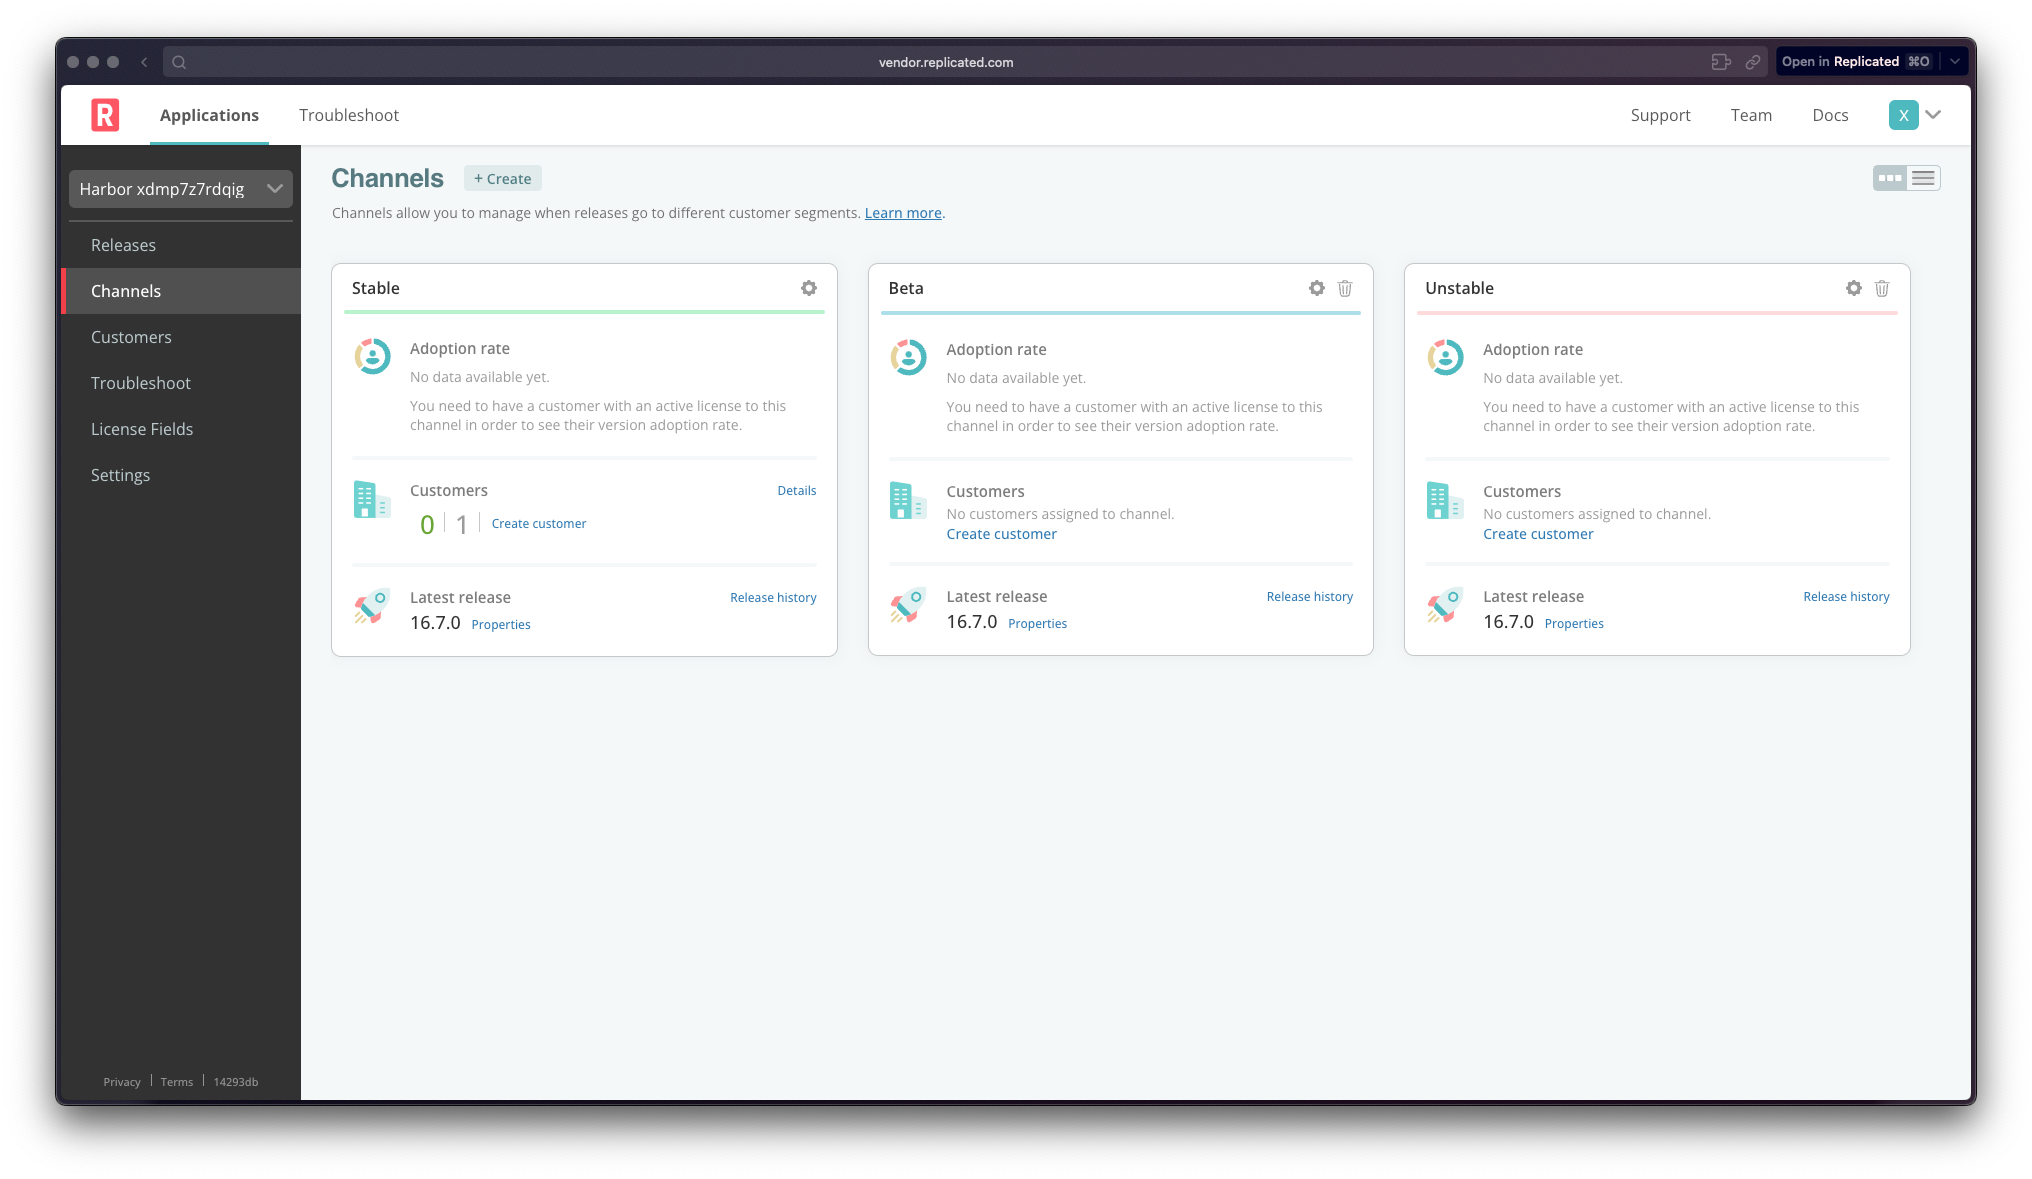
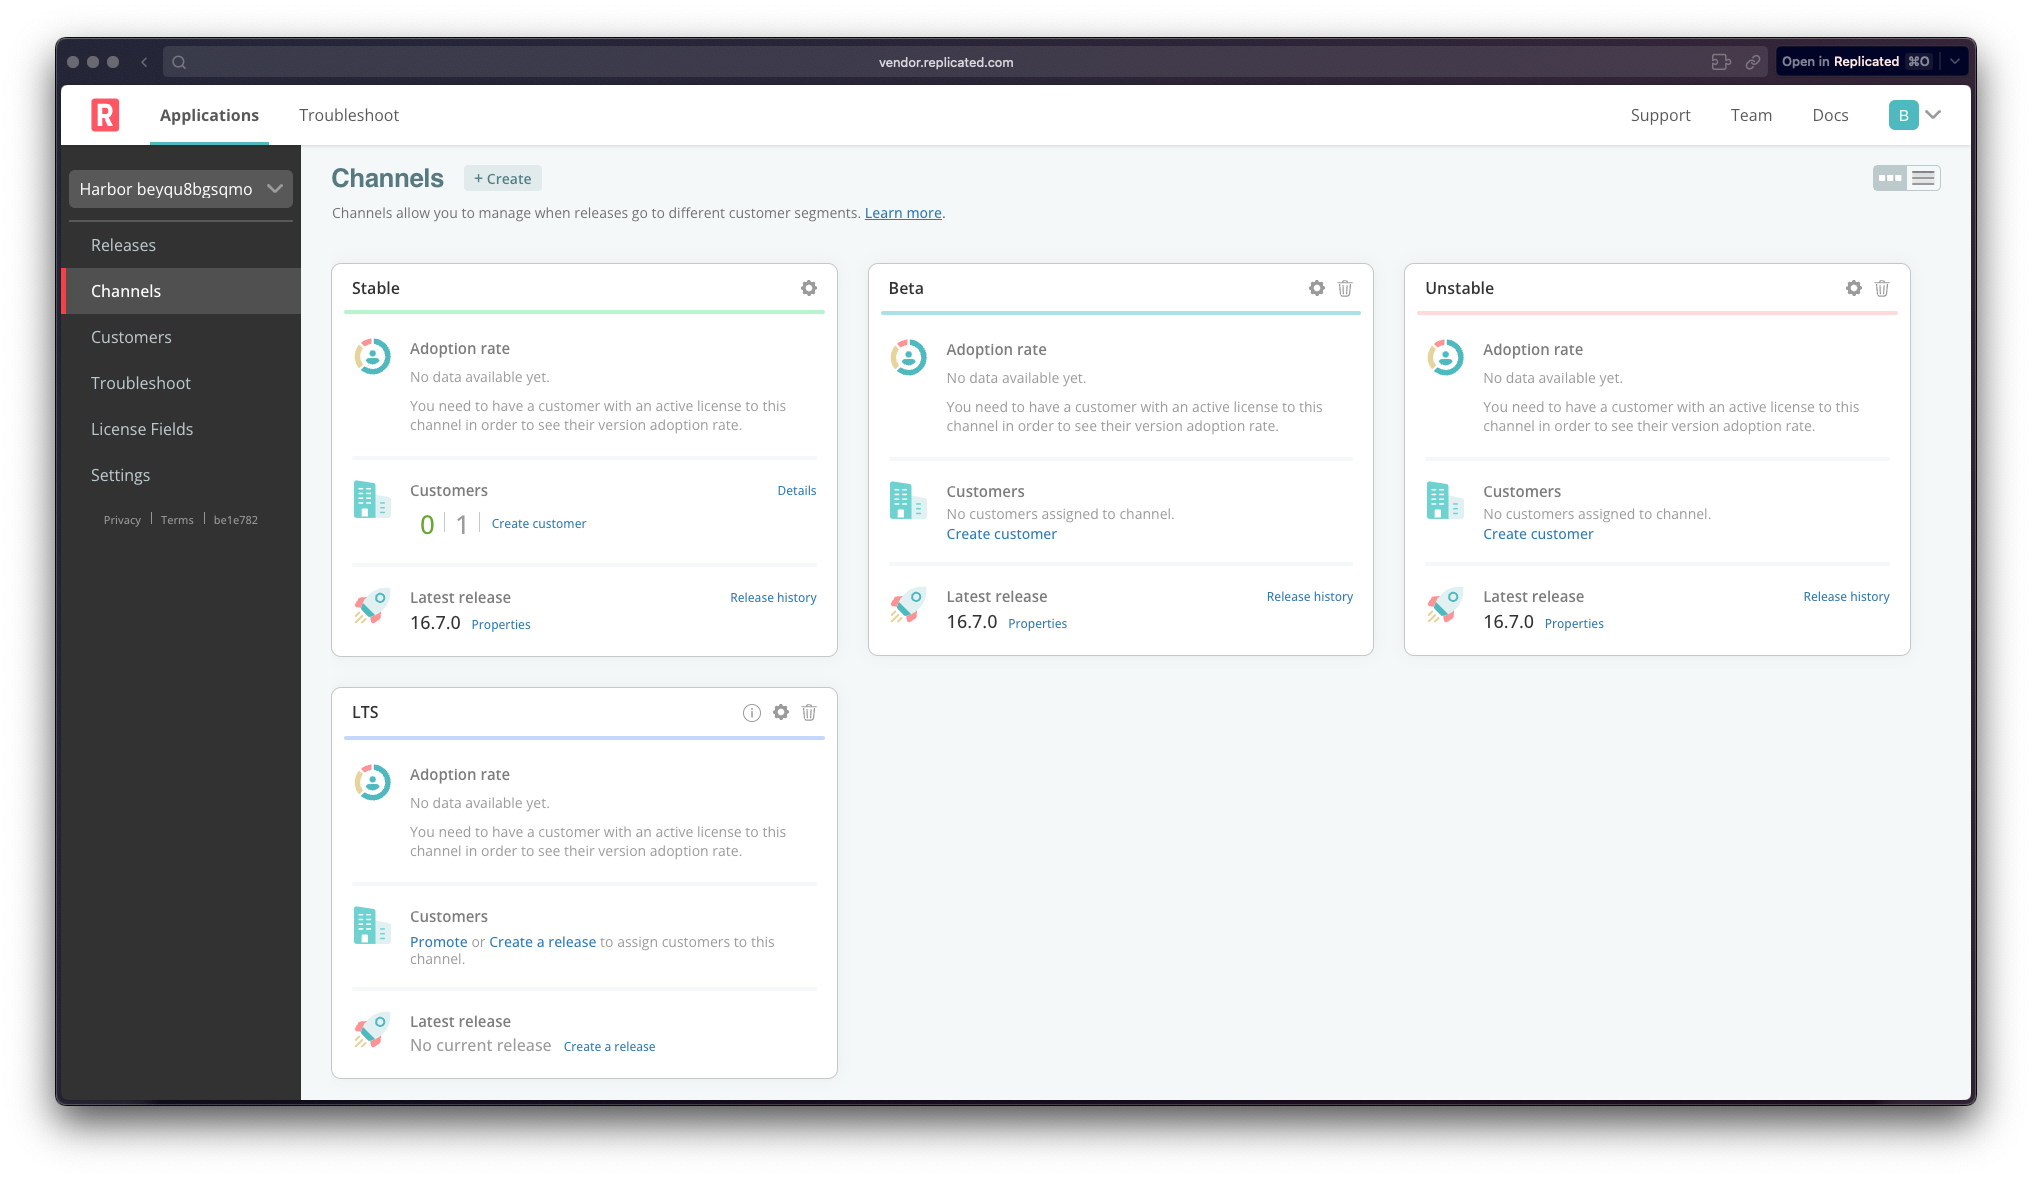
Incorporates feedback from Dex's review (#272)
TL;DR
-----

Addresses feedback from @dexhorthy's review

Details
-------

Clarifies instructions, breaks up some walls of texts,
and exposes the user to a few more CLI commands based on
the feedback @dexhorthy provided on #271 after I got
enough approvals to merge.

diff --git a/instruqt/distributing-with-replicated/03-creating-a-release/assignment.md b/instruqt/distributing-with-replicated/03-creating-a-release/assignment.md
@@ -43,6 +43,12 @@ Release channels help you account for these different release
 cadences for your software. By default, Replicated creates
 three release channels for each application:
 
+```
+replicated channel ls
+```
+
+You should see three channels in the output:
+
 * `Unstable` is, as it sounds, releases that may be unstable
    and subject to defects and/or constant change. You may have
    every merge PR hit this channel, for example.
@@ -54,13 +60,19 @@ three release channels for each application:
   channel for any customer who did not opt-in to an alternative.
 
 You may consider a few other uses for release channels in your
-release process. Some examples:
+release process. For examples, let's add a channel called `LTS`
+for those customers who want longer term guarantees of
+support and fitness that you provide for your standard releases.
 
-* `LTS` for those customer who want longer term gaurantees
-  of support and fitness that you provide for your standard
-  releases.
+```
+replicated channel create --name LTS \
+  --description "Releases with long-term support available"
+```
+
+Other examples:
+
 * `Edge` for customer who want continuous delivery of your
-   software to their environmnets.
+   software to their environments.
 * Channels named after the feature branches in your source
   code. These can help product teams validate release before
   they are merged for release on your primary channels.
@@ -69,7 +81,8 @@ release process. Some examples:
 Creating Your Release
 =====================
 
-To create a release, run the following command:
+To create a release, run the following command. We're using the
+`Unstable` channel since we're releasing our most recent change.
 
 ```
 replicated release create --promote Unstable --yaml-dir ./release --version 16.7.0  \
@@ -77,10 +90,9 @@ replicated release create --promote Unstable --yaml-dir ./release --version 16.7
 ```
 
 This creates a release for version `16.7.0` of your Harbor Helm
-Chart, and promotes it to the `Unstable` channel. To release it
-to another channel, use `replicated release promote`. The `create`
-command output sequence number that you'll need for `promote` (it
-will be `2` if you haven't explored releasing a bit more).
+Chart, and promotes it to the `Unstable` channel.  The `create`
+command output sequence number that you'll need for `promote`
+(it will be `2` if you haven't explored releasing a bit more).
 
 ```
   _ Reading manifests from ./release _
@@ -90,10 +102,30 @@ will be `2` if you haven't explored releasing a bit more).
     _ Channel 2Qa7rGeBiT3DaDK85s6FVKRC7Mn successfully set to release 2
 ```
 
-In your actual release process, there may be a lot of activity
-between releasing to `Unstable`, promoting to `Beta`, and
-ultimately releasing on `Stable`. For the purposes of the lab,
-let's just promote the release straight through.
+The sequence number uniquely identifies a release among all the
+releases you've made of your application. You can list your
+releases using
+
+```
+replicated release ls
+```
+
+which should show the initial release made during lab
+set up as well as the release you just created. It will
+also show the channel each release is currently available on,
+if any.
+
+```
+SEQUENCE    CREATED                 EDITED                  ACTIVE_CHANNELS
+2           2023-06-08T00:23:40Z    0001-01-01T00:00:00Z    Unstable
+1           2023-06-08T00:19:43Z    0001-01-01T00:00:00Z    Stable
+```
+
+To make an existing release available on another channel, use
+`replicated release promote`. In your actual release process,
+there may be a lot of activity between releasing to `Unstable`,
+promoting to `Beta`, and ultimately releasing on `Stable`.
+For the purposes of the lab, let's just promote the release straight through.
 
 ```
 replicated release promote 2 Beta --version 16.7.0 \
@@ -107,3 +139,10 @@ replicated release promote 2 Stable --version 16.7.0 \
   --release-notes "Prepares for distribution with Replicated by incorporating the Replicated SDK"
 ```
 
+You can see they were promoted by listing your releases again:
+
+```
+SEQUENCE    CREATED                 EDITED                  ACTIVE_CHANNELS
+2           2023-06-08T00:23:40Z    0001-01-01T00:00:00Z    Stable,Beta,Unstable
+1           2023-06-08T00:19:43Z    0001-01-01T00:00:00Z
+```

diff --git a/instruqt/distributing-with-replicated/04-installing-the-application/assignment.md b/instruqt/distributing-with-replicated/04-installing-the-application/assignment.md
@@ -46,6 +46,9 @@ each channel shows the current version `16.7.0`.
 
 ![Vendor Portal Release Channels](../assets/vendor-portal-landing.png)
 
+_Note: If you are already a user of the Replicated Vendor Portal
+you may need to log out using the settings menu in the top right
+corner before you can log in as the lab user._
 
 Getting the Install Instructions
 ================================
@@ -63,7 +66,7 @@ installed anywhere yet.
 ![Customers Landing Page](../assets/customers-page.png)
 
 Below the graph you'll see the list of customers, with the customer
-"Omozon" as the only one in the list. Click on their name and you'll
+"Omozan" as the only one in the list. Click on their name and you'll
 be brought to their customer page. In the top right corner you'll
 see a link to their install instructions.
 
@@ -83,8 +86,8 @@ added any to our chart.
 Installing the Application
 ==========================
 
-Your customer starts their installation by logging into our 
-registry with the `helm` command. This gives them access to 
+Your customer starts their installation by logging into our
+registry with the `helm` command. This gives them access to
 your Helm chart via the Replicated Platform.
 
 ```
@@ -94,7 +97,7 @@ helm registry login registry.replicated.com \
 ```
 
 From there, they do a simple Helm install. In our case, we're going to
-tack some additional values that Harbor needs to come up correctly. 
+tack some additional values that Harbor needs to come up correctly.
 This helps us make sure the installation is complete before we move
 onto the next step in the lab.
 
@@ -104,3 +107,6 @@ helm install harbor \
   --set service.type=NodePort --set nodePort.https=443 \
   --set externalURL=https://[[  Instruqt-Var key="EXTERNAL_URL" hostname="cluster" ]]
 ```
+
+It's normal for this command to take a little bit of time to
+complete as various components of the Harbor registry come up.

diff --git a/instruqt/distributing-with-replicated/02-enabling-the-sdk/assignment.md b/instruqt/distributing-with-replicated/02-enabling-the-sdk/assignment.md
@@ -20,17 +20,17 @@ timelimit: 300
 ---
 
 Now that we've got our environment set up, let's incorporate the
-SDK into our application. We make it easy for you to do this by
-providing a Helm chart you can drop into your chart as a
+SDK into our application. Replicated makes it easy for you to do
+this by providing a Helm chart you can drop into your chart as a
 dependency. When you deliver your Helm chart from the Replicated
-regisry, we'll embed your customer's license into the final
+registry, we'll embed your customer's license into the final
 chart.
 
 This injection serves a few purposes:
 
-1. The licese is available to your application logic through a
-   call to an in-cluster SDK
-2. Accesss to your container images and other registry
+1. The license is available to your application logic through a
+   call to an API provided by an in-cluster service.
+2. Access to your container images and other registry
    assets is secured using customer-specific credentials
 3. The in-cluster service can connect securely to the Replicated
    vendor portal for telemetry, upgrade checks, etc.
@@ -38,7 +38,7 @@ This injection serves a few purposes:
 Adding the Dependency
 ======================
 
-Go to the the "Code Editor" tab and edit the file `Chart.yaml` in
+Go to the the "Manifest Editor" tab and edit the file `Chart.yaml` in
 the source directory `harbor`. You're going to make two changes to
 this file.
 
@@ -92,8 +92,14 @@ helm package harbor --destination ./release
 ```
 
 You should now have a tarball in directory `release` in your
-home directoy.
+home directory.
 
 ```
 ls release
+```
+
+which shows
+
+```
+harbor-16.7.0.tgz
 ```

diff --git a/instruqt/distributing-with-replicated/01-preparing-to-use-the-sdk/assignment.md b/instruqt/distributing-with-replicated/01-preparing-to-use-the-sdk/assignment.md
@@ -41,10 +41,10 @@ things. They've been set up for you in this lab environment.
    access for the duration of this lab with the username
    `[[ Instruqt-Var key="USERNAME" hostname="shell" ]]` and
    the password `[[ Instruqt-Var key="PASSWORD" hostname="shell" ]]`
-3. An application on the Replicated Vendor Portal. We've also
-   created that for you as part of the lab setup.
-4. A customer for that application. We've created the customer as
-   well.
+3. An application on the Replicated Vendor Portal. It was also
+   created for you as part of the lab setup.
+4. A customer for that application. The automation created the 
+   customer as well.
 
 🔤 Getting Started
 ==================
@@ -64,7 +64,8 @@ platform.
 export REPLICATED_API_TOKEN="[[ Instruqt-Var key="REPLICATED_API_TOKEN" hostname="shell" ]]"
 ```
 
-And lastly make sure we are working with the Harbor app
+And lastly make sure we are working with the Harbor app that was
+created by the lab setup.
 
 ```
 export REPLICATED_APP="[[ Instruqt-Var key="REPLICATED_APP" hostname="shell" ]]"

diff --git a/instruqt/distributing-with-replicated/05-validating-the-install/assignment.md b/instruqt/distributing-with-replicated/05-validating-the-install/assignment.md
@@ -82,5 +82,5 @@ you'll see the status change to "Ready."
 =========
 
 Once Omozan's instance is in the _Ready_ state, you've successfully
-distributed the application to the custonmer Omozan using the
+distributed the application to the customer Omozan using the
 Replicated Platform.
